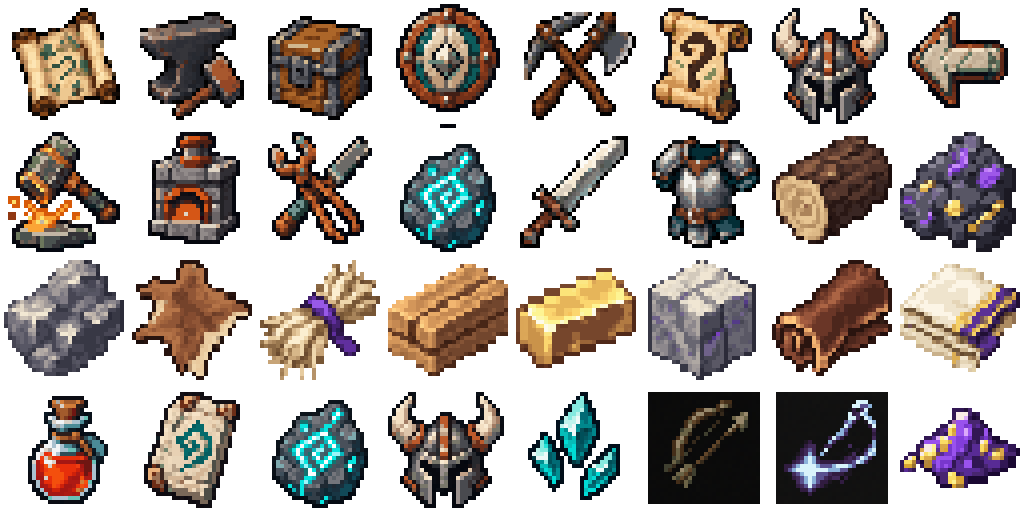
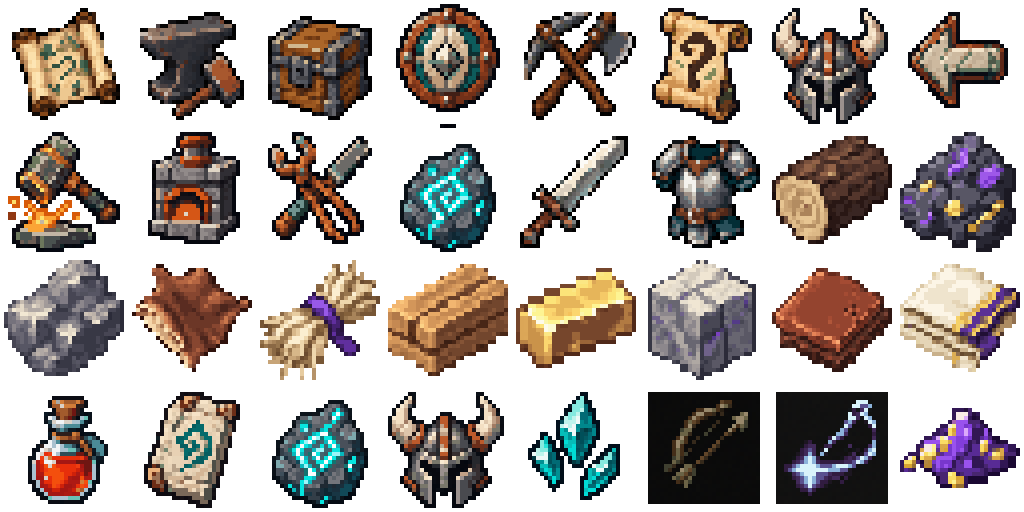
Refine raw hide and cut leather silhouettes

Changed region(s): [[0.75, 0.5, 0.875, 0.75], [0.125, 0.5, 0.25, 0.75]]

diff --git a/scripts/build_core_menu_art.py b/scripts/build_core_menu_art.py
@@ -15,7 +15,7 @@ from build_polish05_material_art import main as build_materials
 ROOT = Path(__file__).resolve().parents[1]
 SOURCE = ROOT / "assets/core-ui/pixel-relic"
 ASSETS = ROOT / "server-minestom/src/main/resources/core-ui-pack/assets/projects"
-MATERIAL_ICONS = ROOT / "assets/core-ui/forge-v5/compiled"
+MATERIAL_ICONS = ROOT / "assets/core-ui/forge-v6/compiled"
 ART_BASE = 0xE700
 ART_CELL = 32
 ART_YS = [18, 28, 30, 36, 42, 48, 54, 56, 70, 72, 84, 90, 98, 108, 112, 126, 140, 154, 168, 182, 196]
@@ -112,7 +112,7 @@ def build_art():
         "cell": ART_CELL, "columns": 8, "sizes": ART_SIZES, "ys": ART_YS, "art": metadata,
         "sources": {**{name: hashlib.sha256((SOURCE / f"source/{name}.png").read_bytes()).hexdigest()
                     for name in sheets},
-                    **{f"forge_v5_{name}": hashlib.sha256(
+                    **{f"forge_v6_{name}": hashlib.sha256(
                         (MATERIAL_ICONS / f"{name}.png").read_bytes()).hexdigest()
                         for name in subjects}},
         "build": "ProjectS material source at 32px; atlas uses nearest-neighbor 32px; binary-alpha inventory sprites",

diff --git a/scripts/test_forge_material_pack.py b/scripts/test_forge_material_pack.py
@@ -10,7 +10,7 @@ CORE = ROOT / "server-minestom/src/main/resources/core-ui-pack/assets/projects"
 POLISH = ROOT / "server-minestom/src/main/resources/polish05"
 NAMES = ("wood", "ore", "stone", "hide", "fiber", "board", "ingot",
          "cut_stone", "leather", "cloth", "affix_dust")
-SOURCE = ROOT / "assets/core-ui/forge-v5/source"
+SOURCE = ROOT / "assets/core-ui/forge-v6/source"
 
 
 def main():

diff --git a/scripts/build_polish05_material_art.py b/scripts/build_polish05_material_art.py
@@ -3,7 +3,7 @@ from pathlib import Path
 from PIL import Image
 
 ROOT = Path(__file__).resolve().parents[1]
-BASE = ROOT / "assets/core-ui/forge-v5"
+BASE = ROOT / "assets/core-ui/forge-v6"
 SOURCE = BASE / "source"
 COMPILED = BASE / "compiled"
 ORDER = ("wood", "board", "ore", "ingot", "stone", "cut_stone",

diff --git a/docs/development/polish05-cursor-material-art.md b/docs/development/polish05-cursor-material-art.md
@@ -23,13 +23,15 @@ art as style references. Raw and processed states have distinct silhouettes.
 The generated high-resolution work files are archived on the D drive under
 `material-art-v4-source-ai`; the rejected transparent 16×16 sprites remain
 at [`forge-v4/source`](../../assets/core-ui/forge-v4/source). The current
-32×32 visual candidate is at [`forge-v5/source`](../../assets/core-ui/forge-v5/source).
+32×32 visual candidate is at [`forge-v6/source`](../../assets/core-ui/forge-v6/source).
 It keeps the smith glyphs at the existing 16 px display size while providing
-more texture detail at source resolution. This candidate still needs the
-Creator's judgment in Minecraft. The same exact 11
+more texture detail at source resolution. For v6, the Creator selected the
+open raw-hide variant A and the flat cut-leather variant from two visual
+comparisons. This pair still needs the Creator's judgment in Minecraft.
+The same exact 11
 sprites feed the smith, storage item models, and core menu glyphs. The approved
 sword, layout, glow, and sound stay as they were. A nearest-neighbor
-[preview](../../assets/core-ui/forge-v5/preview.png) shows each icon at
+[preview](../../assets/core-ui/forge-v6/preview.png) shows each icon at
 inspection size. Live account values are unchanged.
 
 ## Cursor diagnosis
